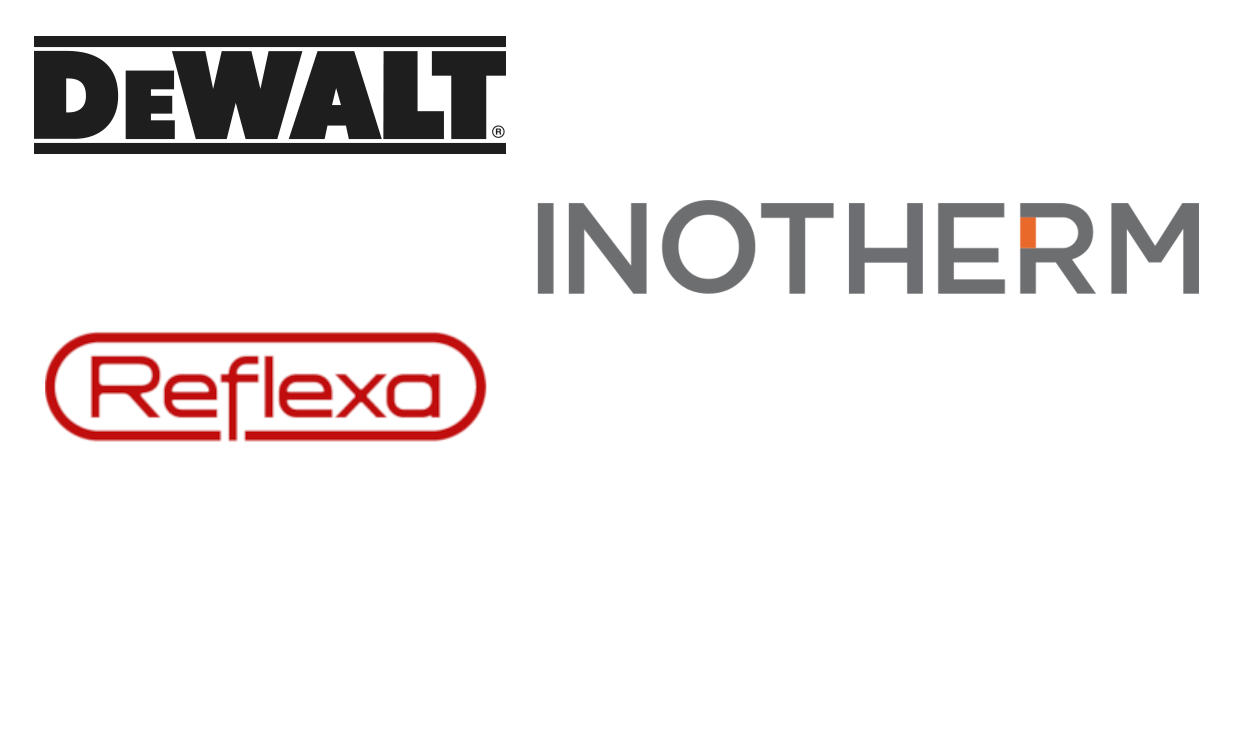
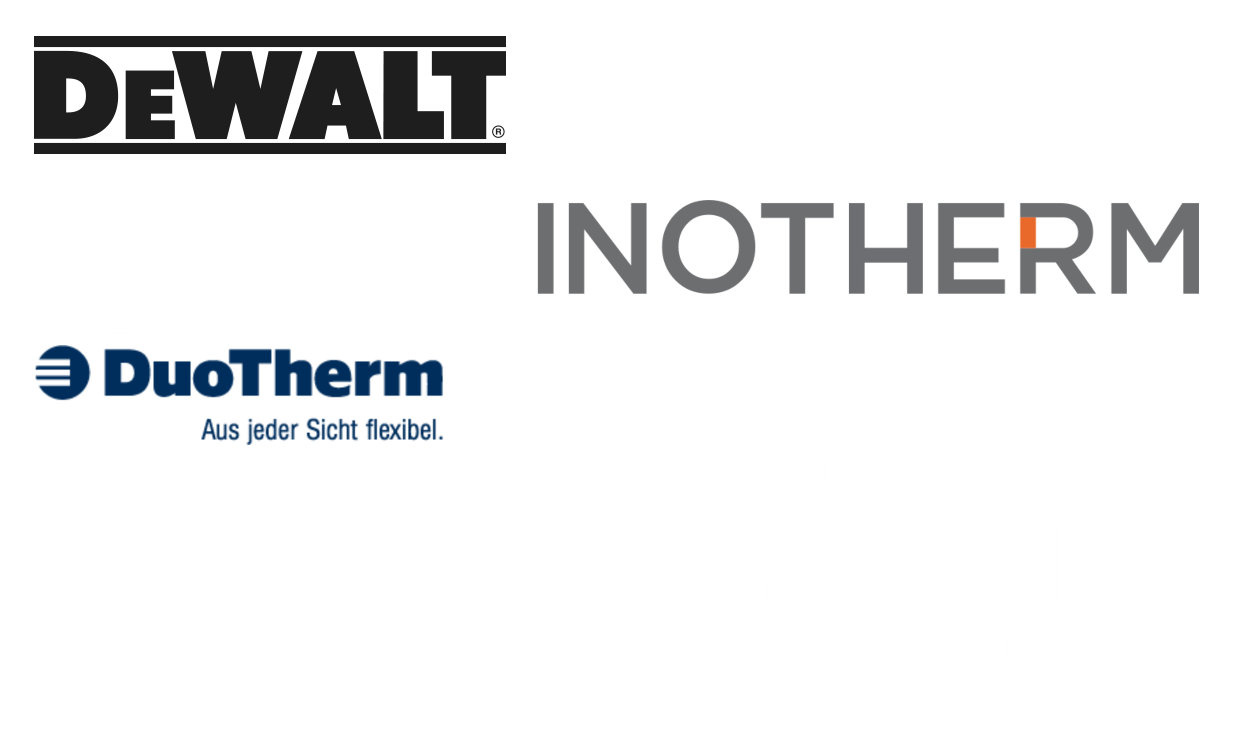
chore: bb reflexa, welcome duotherm

Changed region(s): [[0.031, 0.434, 0.4024, 0.6199]]

diff --git a/content/english/_index.md b/content/english/_index.md
@@ -4,10 +4,6 @@ banner:
   title: "A family business"
   content: "Crafting solutions that align seamlessly with your preferences is at the core of our expertise. As a second-generation family business, we excel in installing and measuring a diverse range of products, including windows, doors, roller shutters, canopies, and awnings. Our commitment to exceptional quality and close, personalized connections with our customers remains the cornerstone of our success."
   image: "/images/arno-senoner-homepage-header.jpg"
-  button:
-    enable: false
-    label: "Get Started For Free"
-    link: "https://github.com/zeon-studio/hugoplate"
 
 # Features
 features:
@@ -32,24 +28,7 @@ features:
     bulletpoints:
       - "**Sohns-Rolladentechnik**: A renowned name that stands for quality and innovation."
       - "**DeWalt**: A global powerhouse known for its robust and reliable products."
-      - "**Reflexa**: Specialists in sun protection systems, contributing to our diverse offerings."
+      - "**Duotherm**: Duotherm specializes in high-quality roller shutters and blinds, providing effective sun protection, privacy, and energy efficiency for residential and commercial spaces."
       - "**Inotherm**: A leading provider of high-quality doors, enhancing the aesthetic and functional appeal of our projects."
     neutralBackground: true
-    button:
-      enable: false
-      label: "Get Started Now"
-      link: "https://github.com/zeon-studio/hugoplate"
-
-  # - title: "The Top Reasons to Choose Hugo for Your Hugo Project"
-  #   image: "/images/service-3.png"
-  #   content: "With Hugo, you can build modern and content-focused websites without sacrificing performance or ease of use."
-  #   bulletpoints:
-  #     - "Instantly load static sites for better user experience and SEO."
-  #     - "Intuitive syntax and support for popular frameworks make learning and using Hugo a breeze."
-  #     - "Use any front-end library or framework, or build custom components, for any project size."
-  #     - "Built on cutting-edge technology to keep your projects up-to-date with the latest web standards."
-  #   button:
-  #     enable: false
-  #     label: ""
-  #     link: ""
 ---

diff --git a/content/deutsch/_index.md b/content/deutsch/_index.md
@@ -32,6 +32,7 @@ features:
     bulletpoints:
       - "**Sohns-Rolladentechnik**: Ein renommierter Name, der für Qualität und Innovation steht."
       - "**DeWalt**: Ein globales Kraftpaket, das für seine robusten und zuverlässigen Produkte bekannt ist."
+      - "**Duotherm**: Duotherm ist spezialisiert auf hochwertige Rollläden und Jalousien, die effektiven Sonnenschutz, Privatsphäre und Energieeffizienz für Wohn- und Geschäftsräume bieten."
       - "**Inotherm**: Ein führender Anbieter von hochwertigen Türen, die die Ästhetik und Funktionalität unserer Projekte verbessern."
     neutralBackground: true
     button:
